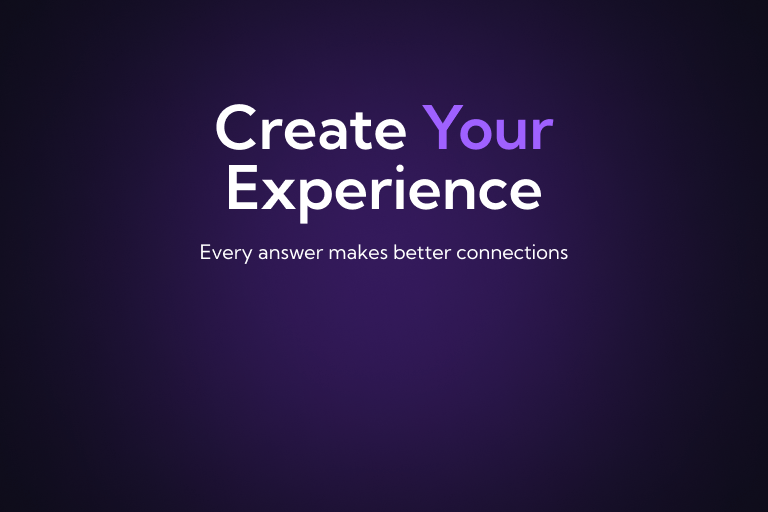
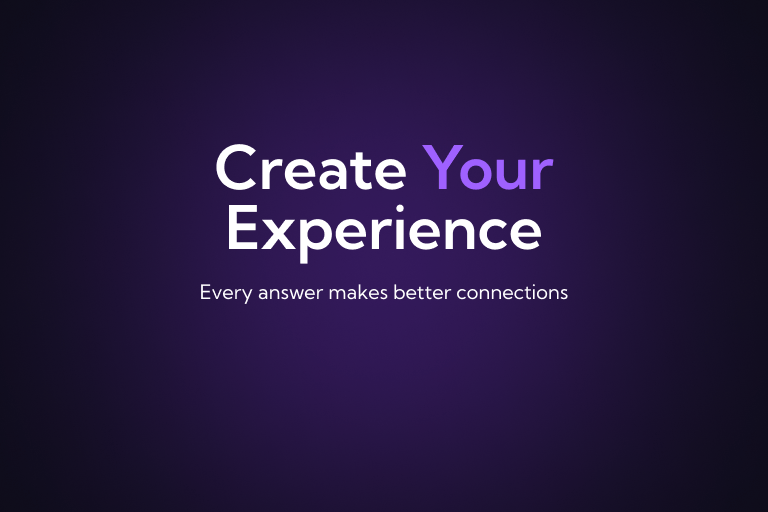
Adjusted step indicators down

Changed region(s): [[0.25, 0.1875, 0.75, 0.5312], [0.25, 0.5625, 0.75, 0.5938]]

diff --git a/utils/frames/generateFrameImages.ts b/utils/frames/generateFrameImages.ts
@@ -59,7 +59,7 @@ const generateQuestionnaireStepImage = async (
       image.composite(
         onStepImage,
         stepOffsetX,
-        12,
+        52,
         {
           mode: Jimp.BLEND_SOURCE_OVER,
           opacitySource: 1,
@@ -70,7 +70,7 @@ const generateQuestionnaireStepImage = async (
       image.composite(
         offStepImage,
         stepOffsetX,
-        12,
+        52,
         {
           mode: Jimp.BLEND_SOURCE_OVER,
           opacitySource: 1,
